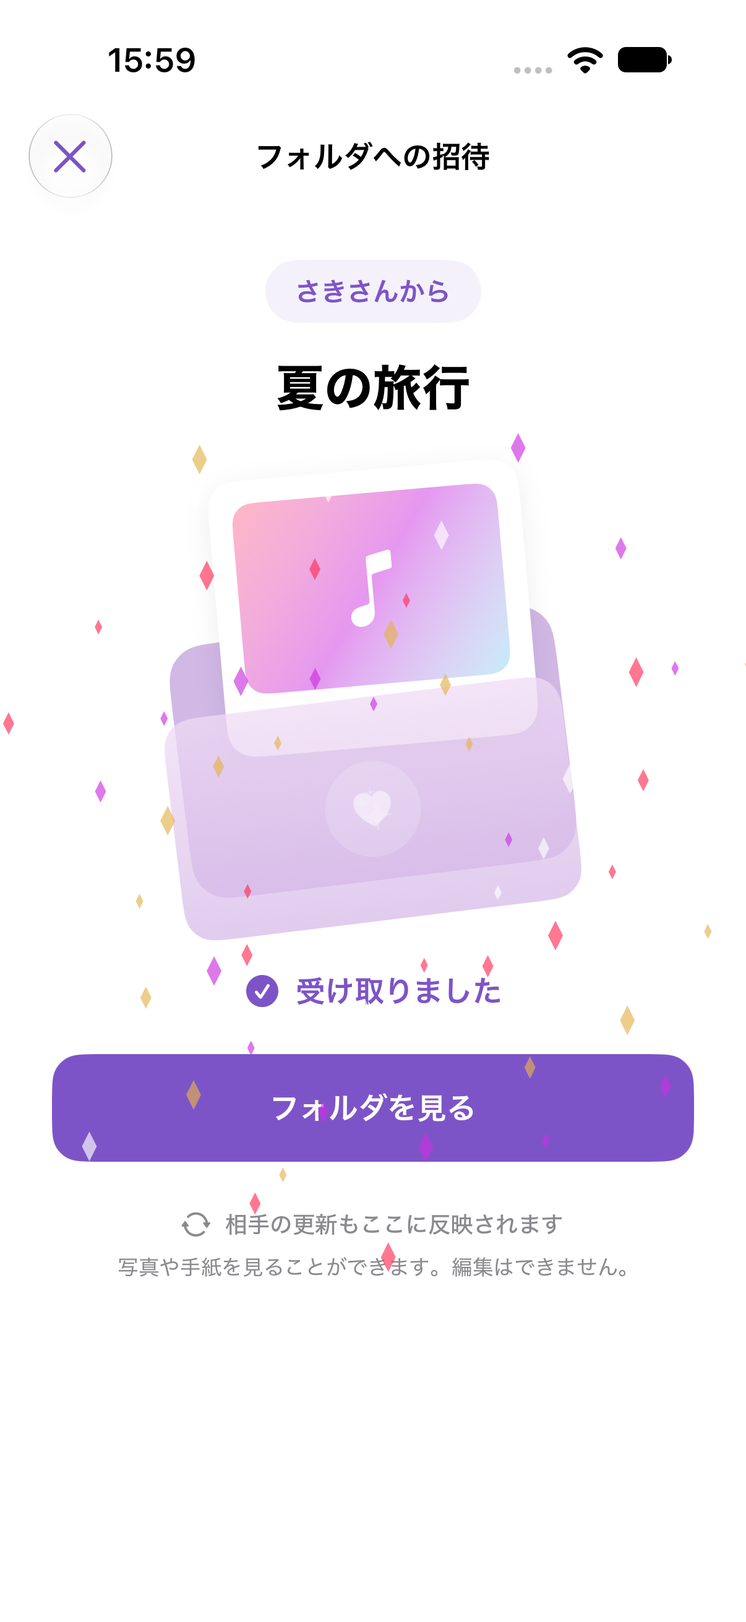
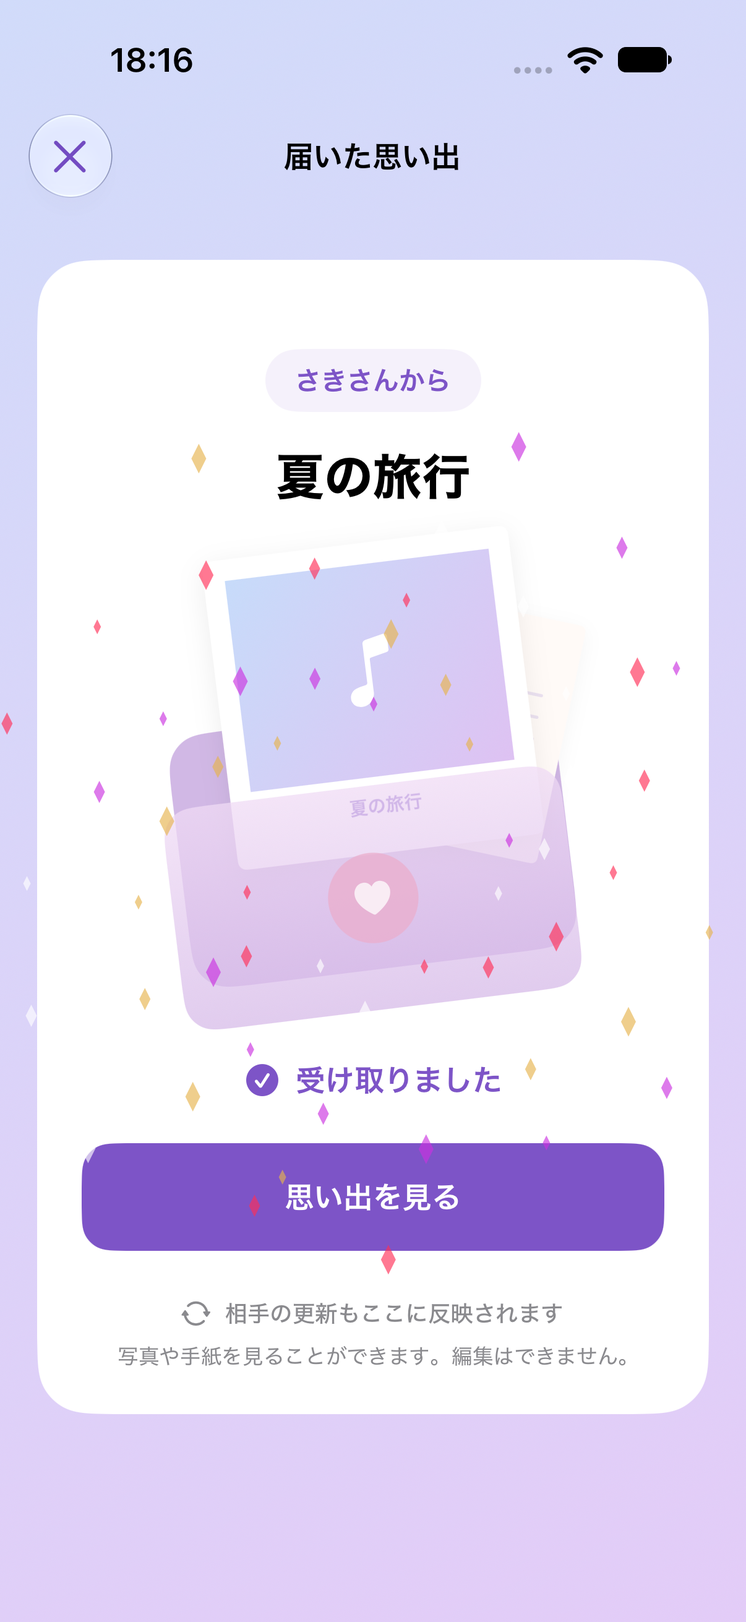
初期企画のチェキと贈り物の雰囲気を送受信画面に反映

diff --git a/sotsugyo/View/FolderInvitationView.swift b/sotsugyo/View/FolderInvitationView.swift
@@ -1,8 +1,13 @@
 import SwiftUI
 
-private enum GiftPalette {
+enum GiftPalette {
     static let ink = Color.primary
     static let purple = Color(red: 0.49, green: 0.33, blue: 0.78)
+    static let purpleText = Color(uiColor: UIColor { traits in
+        traits.userInterfaceStyle == .dark
+            ? UIColor(red: 0.76, green: 0.63, blue: 0.95, alpha: 1)
+            : UIColor(red: 0.49, green: 0.33, blue: 0.78, alpha: 1)
+    })
 }
 
 struct FolderInvitationView: View {
@@ -28,7 +33,7 @@ struct FolderInvitationView: View {
                             VStack(spacing: 18) {
                                 Text("\(invitation.senderName)さんから")
                                     .font(.subheadline.weight(.semibold))
-                                    .foregroundStyle(GiftPalette.purple)
+                                    .foregroundStyle(GiftPalette.purpleText)
                                     .padding(.horizontal, 16).padding(.vertical, 8)
                                     .background(GiftPalette.purple.opacity(0.08), in: Capsule())
                                 Text(invitation.folder.title)
@@ -37,10 +42,10 @@ struct FolderInvitationView: View {
                                     .accessibilityIdentifier("invite.heading")
                             }
                             .padding(.top, 24)
-                            GiftEnvelope(opened: opened, reduceMotion: reduceMotion)
+                            GiftEnvelope(opened: opened, title: invitation.folder.title)
                                 .scaleEffect(0.85).frame(height: 250)
                             Label("受け取りました", systemImage: "checkmark.circle.fill")
-                                .font(.headline).foregroundStyle(GiftPalette.purple)
+                                .font(.headline).foregroundStyle(GiftPalette.purpleText)
                                 .opacity(opened ? 1 : 0)
                                 .accessibilityHidden(!opened)
                                 .accessibilityIdentifier("invite.received")
@@ -58,13 +63,15 @@ struct FolderInvitationView: View {
                             .padding(.top, 2)
                         }
                     }
-                    .padding(.horizontal, 28).padding(.bottom, 32)
+                    .padding(24)
+                    .background(Color(uiColor: .secondarySystemGroupedBackground), in: RoundedRectangle(cornerRadius: 28))
+                    .padding(.horizontal, 20).padding(.vertical, 24)
                     .frame(maxWidth: 540).frame(maxWidth: .infinity)
                 }
                 if opened && !reduceMotion { GiftSparkles().allowsHitTesting(false).accessibilityHidden(true) }
             }
             .foregroundStyle(GiftPalette.ink)
-            .navigationTitle("フォルダへの招待").navigationBarTitleDisplayMode(.inline)
+            .navigationTitle("届いた思い出").navigationBarTitleDisplayMode(.inline)
             .toolbar {
                 ToolbarItem(placement: .cancellationAction) {
                     Button("閉じる", systemImage: "xmark") { dismiss() }
@@ -73,7 +80,7 @@ struct FolderInvitationView: View {
             }
             .navigationDestination(isPresented: $showFolder) {
                 if let received = model.received {
-                    SharedFolderView(reference: received, repository: model.repository)
+                    SharedFolderView(reference: received, senderName: model.invitation?.senderName, repository: model.repository)
                 }
             }
             .task { await model.load(link) }
@@ -109,7 +116,7 @@ struct FolderInvitationView: View {
             } label: {
                 HStack(spacing: 10) {
                     if model.isWorking { ProgressView().tint(.white) }
-                    Text(model.isWorking ? "受け取り中…" : opened ? "フォルダを見る" : "受け取る")
+                    Text(model.isWorking ? "受け取り中…" : opened ? "思い出を見る" : "受け取って開く")
                 }
                 .font(.headline).frame(maxWidth: .infinity, minHeight: 58)
                 .foregroundStyle(.white)
@@ -124,11 +131,12 @@ struct FolderInvitationView: View {
 struct FolderInviteShareView: View {
     let folderID: String
     let folderName: String
+    let coverImage: UIImage?
     @StateObject private var model: FolderInvitationModel
     @Environment(\.dismiss) private var dismiss
     @State private var confirmRevoke = false
-    init(folderID: String, folderName: String, repository: any FolderInvitationRepository = FirebaseFolderInvitationRepository()) {
-        self.folderID = folderID; self.folderName = folderName
+    init(folderID: String, folderName: String, coverImage: UIImage? = nil, repository: any FolderInvitationRepository = FirebaseFolderInvitationRepository()) {
+        self.folderID = folderID; self.folderName = folderName; self.coverImage = coverImage
         _model = StateObject(wrappedValue: FolderInvitationModel(repository: repository))
     }
     var body: some View {
@@ -140,8 +148,8 @@ struct FolderInviteShareView: View {
                         Text(folderName)
                             .font(.system(size: 28, weight: .heavy, design: .rounded))
                             .multilineTextAlignment(.center).padding(.top, 20)
-                        GiftEnvelope(opened: false, reduceMotion: true).scaleEffect(0.72).frame(height: 210)
-                        Text("リンクを送ると、相手もこのフォルダを見られます。\n写真や手紙の更新も、相手に反映されます。")
+                        GiftEnvelope(opened: true, title: folderName, coverImage: coverImage).scaleEffect(0.85).frame(height: 260)
+                        Text("写真に音楽や手紙を添えて、\nリンクで送れます。")
                             .font(.subheadline).multilineTextAlignment(.center)
                         if model.isWorking { ProgressView("リンクを準備しています…") }
                         else if let invitation = model.invitation, !model.isRevoked {
@@ -152,7 +160,7 @@ struct FolderInviteShareView: View {
                             .buttonStyle(.borderedProminent).buttonBorderShape(.roundedRectangle(radius: 16))
                             .accessibilityIdentifier("invite.share")
                             Text("\(invitation.expiresAt.formatted(date: .abbreviated, time: .omitted))まで参加できます。\nリンクを知っている方は、ログインすると参加できます。")
-                                .font(.caption).multilineTextAlignment(.center)
+                                .font(.caption).foregroundStyle(.secondary).multilineTextAlignment(.center)
                             Button("このリンクを無効にする", role: .destructive) { confirmRevoke = true }
                                 .font(.footnote)
                         } else {
@@ -160,12 +168,18 @@ struct FolderInviteShareView: View {
                             Button(model.isRevoked ? "新しい招待リンクを作る" : "招待リンクを作る") { Task { await model.create(folderID: folderID) } }
                                 .buttonStyle(.borderedProminent).controlSize(.large)
                         }
+                        Text("送ったあとに写真や手紙を更新すると、相手にも反映されます。")
+                            .font(.caption).foregroundStyle(.secondary).multilineTextAlignment(.center)
                         if let error = model.error { Text(error).font(.footnote).foregroundStyle(.red) }
-                    }.padding(28).frame(maxWidth: 540).frame(maxWidth: .infinity)
+                    }
+                    .padding(24)
+                    .background(Color(uiColor: .secondarySystemGroupedBackground), in: RoundedRectangle(cornerRadius: 28))
+                    .padding(.horizontal, 20).padding(.vertical, 24)
+                    .frame(maxWidth: 540).frame(maxWidth: .infinity)
                 }
             }
             .foregroundStyle(GiftPalette.ink).tint(GiftPalette.purple)
-            .navigationTitle("招待リンク").navigationBarTitleDisplayMode(.inline)
+            .navigationTitle("思い出を送る").navigationBarTitleDisplayMode(.inline)
             .toolbar { ToolbarItem(placement: .cancellationAction) { Button("閉じる") { dismiss() }.disabled(model.isWorking) } }
             .confirmationDialog("招待リンクを無効にしますか？", isPresented: $confirmRevoke, titleVisibility: .visible) {
                 Button("リンクを無効にする", role: .destructive) { Task { await model.revoke() } }
@@ -175,36 +189,60 @@ struct FolderInviteShareView: View {
     }
 }
 
-private struct GiftBackdrop: View {
+struct GiftBackdrop: View {
+    @Environment(\.colorScheme) private var colorScheme
     var body: some View {
-        Color(uiColor: .systemBackground).ignoresSafeArea()
+        LinearGradient(
+            colors: colorScheme == .dark
+                ? [Color(red: 0.13, green: 0.14, blue: 0.22), Color(red: 0.20, green: 0.14, blue: 0.25)]
+                : [Color(red: 0.82, green: 0.86, blue: 0.98), Color(red: 0.89, green: 0.80, blue: 0.97)],
+            startPoint: .topLeading, endPoint: .bottomTrailing
+        ).ignoresSafeArea()
     }
 }
 
 private struct GiftEnvelope: View {
     let opened: Bool
-    let reduceMotion: Bool
+    let title: String
+    var coverImage: UIImage? = nil
     var body: some View {
         ZStack {
             RoundedRectangle(cornerRadius: 24).fill(Color(red: 0.82, green: 0.72, blue: 0.9))
                 .frame(width: 246, height: 162).rotationEffect(.degrees(-7)).offset(y: 36)
-            VStack(spacing: 12) {
-                ZStack {
-                    RoundedRectangle(cornerRadius: 12).fill(LinearGradient(colors: [.pink.opacity(0.35), .purple.opacity(0.5), .cyan.opacity(0.3)], startPoint: .topLeading, endPoint: .bottomTrailing))
-                    Image(systemName: "music.note").font(.system(size: 44, weight: .light)).foregroundStyle(.white)
-                }.frame(height: 108)
-                Color.clear.frame(height: 10)
+            VStack(alignment: .leading, spacing: 12) {
+                Image(systemName: "heart").font(.system(size: 16, weight: .semibold)).foregroundStyle(.pink.opacity(0.6))
+                ForEach(0..<3) { _ in Capsule().fill(GiftPalette.purple.opacity(0.15)).frame(height: 2) }
+                Spacer(minLength: 0)
             }
-            .padding(13).background(.white, in: RoundedRectangle(cornerRadius: 16))
-            .frame(width: 176).rotationEffect(.degrees(opened ? -5 : 5))
+            .padding(18).frame(width: 138, height: 154)
+            .background(Color(red: 1, green: 0.98, blue: 0.97), in: RoundedRectangle(cornerRadius: 4))
+            .rotationEffect(.degrees(12)).offset(x: 52, y: opened ? -38 : 28)
+            .shadow(color: .black.opacity(0.04), radius: 6, y: 3)
+            VStack(spacing: 10) {
+                Group {
+                    if let coverImage {
+                        Image(uiImage: coverImage).resizable().scaledToFit()
+                    } else {
+                        ZStack {
+                            Rectangle().fill(LinearGradient(colors: [Color(red: 0.78, green: 0.86, blue: 0.98), Color(red: 0.87, green: 0.76, blue: 0.95)], startPoint: .topLeading, endPoint: .bottomTrailing))
+                            Image(systemName: "music.note").font(.system(size: 40, weight: .medium)).foregroundStyle(.white)
+                        }
+                    }
+                }.frame(width: 150, height: 120)
+                Text(title).font(.system(size: 11, weight: .bold, design: .rounded))
+                    .foregroundStyle(GiftPalette.purple).lineLimit(1)
+            }
+            .padding(12).padding(.bottom, 8).frame(width: 174)
+            .background(.white, in: RoundedRectangle(cornerRadius: 5))
+            .rotationEffect(.degrees(opened ? -7 : 5))
             .offset(y: opened ? -48 : 12).scaleEffect(opened ? 1.12 : 0.9)
             .shadow(color: .black.opacity(0.07), radius: 8, y: 4)
             RoundedRectangle(cornerRadius: 20)
                 .fill(LinearGradient(colors: [Color(red: 0.94, green: 0.86, blue: 0.96), Color(red: 0.84, green: 0.73, blue: 0.91)], startPoint: .top, endPoint: .bottom))
                 .frame(width: 254, height: 142).overlay {
-                    Image(systemName: opened ? "heart.fill" : "sparkles")
-                        .font(.system(size: 25, weight: .light)).foregroundStyle(.white)
-                        .padding(17).background(.white.opacity(0.22), in: Circle())
+                    Image(systemName: "heart.fill")
+                        .font(.system(size: 23, weight: .medium)).foregroundStyle(.white)
+                        .padding(16).background(Color(red: 0.92, green: 0.68, blue: 0.80), in: Circle())
                 }.rotationEffect(.degrees(-7)).offset(y: opened ? 72 : 68)
                 .opacity(opened ? 0.75 : 1)
         }

diff --git a/sotsugyo/View/SharedFolderView.swift b/sotsugyo/View/SharedFolderView.swift
@@ -2,11 +2,13 @@ import SwiftUI
 
 struct SharedFolderView: View {
     let reference: LiveSharedFolder
+    let senderName: String?
     @StateObject private var model: SharedFolderModel
     @State private var retryID = UUID()
     @Environment(\.scenePhase) private var scenePhase
-    init(reference: LiveSharedFolder, repository: any FolderInvitationRepository = FirebaseFolderInvitationRepository()) {
+    init(reference: LiveSharedFolder, senderName: String? = nil, repository: any FolderInvitationRepository = FirebaseFolderInvitationRepository()) {
         self.reference = reference
+        self.senderName = senderName
         #if DEBUG
         if UITestFixtures.isEnabled {
             _model = StateObject(wrappedValue: SharedFolderModel(repository: repository, imageLoader: { _, _ in UITestFixtures.image().pngData()! }))
@@ -20,14 +22,15 @@ struct SharedFolderView: View {
     var body: some View {
         ScrollView {
             VStack(alignment: .leading, spacing: 28) {
-                VStack(alignment: .leading, spacing: 12) {
+                VStack(spacing: 12) {
+                    if let senderName {
+                        Text("\(senderName)さんから").font(.subheadline.bold()).foregroundStyle(.secondary)
+                    }
                     Text(model.folder?.title ?? reference.title)
                         .font(.system(size: 28, weight: .heavy, design: .rounded))
-                        .frame(maxWidth: .infinity, alignment: .leading)
-                    Label("閲覧のみ・相手の更新も反映されます", systemImage: "person.2")
-                        .font(.caption).foregroundStyle(.secondary)
+                        .multilineTextAlignment(.center)
                 }
-                .padding(.top, 12)
+                .frame(maxWidth: .infinity).padding(.top, 12)
                 if let error = model.error {
                     Text(error).font(.subheadline).multilineTextAlignment(.center)
                     Button("再読み込み") { retryID = UUID() }
@@ -37,32 +40,43 @@ struct SharedFolderView: View {
                     VStack(alignment: .leading, spacing: 20) {
                         Label("手紙", systemImage: "envelope.open")
                             .font(.system(.headline, design: .rounded, weight: .bold))
-                            .foregroundStyle(Color(red: 0.49, green: 0.33, blue: 0.78))
+                            .foregroundStyle(GiftPalette.purpleText)
                         Rectangle().fill(.purple.opacity(0.12)).frame(height: 1)
                         Text(folder.letter).font(.body).lineSpacing(8).frame(maxWidth: .infinity, alignment: .leading)
                             .accessibilityIdentifier("shared.letter")
                     }
-                    .padding(24).background(Color(uiColor: .secondarySystemGroupedBackground), in: RoundedRectangle(cornerRadius: 24))
-                    .overlay { RoundedRectangle(cornerRadius: 24).strokeBorder(.purple.opacity(0.10), lineWidth: 1) }
+                    .padding(24).padding(.top, 8)
+                    .background(Color(uiColor: .secondarySystemGroupedBackground), in: RoundedRectangle(cornerRadius: 8))
+                    .overlay(alignment: .top) {
+                        Rectangle().fill(Color(red: 0.96, green: 0.76, blue: 0.85).opacity(0.8))
+                            .frame(width: 66, height: 18).rotationEffect(.degrees(-4)).offset(y: -8)
+                            .accessibilityHidden(true)
+                    }
+                    .padding(.top, 12)
                 }
                 if !model.photos.isEmpty {
-                    Text("写真").font(.system(.title3, design: .rounded, weight: .bold))
+                    Text("チェキ").font(.system(.title3, design: .rounded, weight: .bold))
                 }
                 ForEach(model.photos) { photo in
                     VStack(spacing: 0) {
-                        Image(uiImage: photo.image).resizable().scaledToFit().clipShape(RoundedRectangle(cornerRadius: 16))
+                        Image(uiImage: photo.image).resizable().scaledToFit()
                         if let music = photo.record.music { MusicAttachmentView(track: music.track) }
                     }
-                    .padding(12).background(Color(uiColor: .secondarySystemGroupedBackground), in: RoundedRectangle(cornerRadius: 24))
+                    .padding(8).background(Color(uiColor: .secondarySystemGroupedBackground), in: RoundedRectangle(cornerRadius: 6))
+                    .shadow(color: .black.opacity(0.04), radius: 6, y: 3)
                 }
                 if model.folder != nil && model.photos.isEmpty && !model.isLoading {
                     Text("写真は、送り主が追加するとここに届きます。")
                         .font(.footnote).foregroundStyle(.secondary)
                 }
+                if model.folder != nil {
+                    Text("相手の更新もここに反映されます。内容の編集はできません。")
+                        .font(.caption).foregroundStyle(.secondary)
+                }
             }.padding(24).frame(maxWidth: 560).frame(maxWidth: .infinity)
         }
-        .background(Color(uiColor: .systemGroupedBackground))
-        .navigationTitle("共有されたフォルダ").navigationBarTitleDisplayMode(.inline)
+        .background { GiftBackdrop() }
+        .navigationTitle("届いた思い出").navigationBarTitleDisplayMode(.inline)
         .task(id: "\(retryID)-\(scenePhase == .active)") {
             if scenePhase == .active { await model.observe(reference) }
         }
@@ -76,7 +90,7 @@ struct SharedFolderLibrarySection: View {
     var body: some View {
         VStack(alignment: .leading, spacing: 12) {
             if !folders.isEmpty {
-                Text("共有されたフォルダ").font(.title2.bold())
+                Text("届いた思い出").font(.title2.bold())
                 ForEach(folders) { folder in
                     NavigationLink {
                         SharedFolderView(reference: folder)

diff --git a/sotsugyo/View/main/FolderContentView.swift b/sotsugyo/View/main/FolderContentView.swift
@@ -255,7 +255,7 @@ struct FolderDetailView: View {
                     }
 
                     Button { showInvite = true } label: {
-                        Label("リンクで共有", systemImage: "gift.fill")
+                        Label("リンクで送る", systemImage: "gift.fill")
                             .font(.headline).frame(maxWidth: .infinity, minHeight: 48)
                     }
                     .buttonStyle(.borderedProminent).tint(.purple).buttonBorderShape(.capsule)
@@ -302,10 +302,10 @@ struct FolderDetailView: View {
         .sheet(isPresented: $showInvite) {
             #if DEBUG
             if UITestFixtures.isEnabled {
-                FolderInviteShareView(folderID: folderId, folderName: folderName, repository: UITestInvitationRepository())
-            } else { FolderInviteShareView(folderID: folderId, folderName: folderName) }
+                FolderInviteShareView(folderID: folderId, folderName: folderName, coverImage: viewModel.folderCoverImages[folderId], repository: UITestInvitationRepository())
+            } else { FolderInviteShareView(folderID: folderId, folderName: folderName, coverImage: viewModel.folderCoverImages[folderId]) }
             #else
-            FolderInviteShareView(folderID: folderId, folderName: folderName)
+            FolderInviteShareView(folderID: folderId, folderName: folderName, coverImage: viewModel.folderCoverImages[folderId])
             #endif
         }
         .task(id: folderId) {

diff --git a/docs/verification/invite-links/README.md b/docs/verification/invite-links/README.md
@@ -4,7 +4,9 @@
 
 ## 画面
 
-招待・送信画面は送り主と実際のフォルダ名を主役にしています。太めのフォントと紫の封筒を残し、英字の飾り・抽象的なコピー・背景のぼかし・常時表示の星を外しました。受け取り成功時にカードが現れ、キラキラした粒子が広がります。文面は「リンクで共有」「共有されたフォルダ」など、操作や内容が直接伝わる表現に揃えています。受信画面は送り主を淡い紫のラベルで示し、開封前後で操作ボタンの位置を維持。受け取り後は見出しを左揃えにし、手紙と写真を分けて表示します。確認用のフォルダ名・手紙も普段のやり取りに近い文章にしています。
+初期企画資料の「チェキ×音楽×プレゼント」に合わせ、水色〜紫の背景と白い台紙、太めの文字、チェキと便箋を入れた封筒で送受信画面を統一しています。送信画面には読み込み済みのフォルダ表紙を表示し、受信画面は受け取り成功後に開封とキラキラの演出を表示します。参加前に写真を取得する処理は追加していません。
+
+操作は「リンクで送る」「受け取って開く」「思い出を見る」、一覧は「届いた思い出」と表示します。更新の同期・閲覧専用・リンクの公開範囲の説明は残しています。受信画面は開封前後でボタン位置を維持し、共有内容は便箋とチェキの形で表示します。
 
 Xcode 27.2 beta 2 / iPhone 18 Pro / iOS 27.0 の専用シミュレーター「PicTune Model Review」。写真・送り主名は確認用の架空データです。
 
@@ -25,6 +27,7 @@ Xcode 27.2 beta 2 / iPhone 18 Pro / iOS 27.0 の専用シミュレーター「Pi
 - 2026-10-07: 送り主・フォルダ名を主役にした画面で、招待作成・無効化、期限切れ、通信失敗、開封と同期のUIテスト4件が成功。最終の文字色調整後にも送信・開封の2件を再実行し成功。掲載画像は最終画面です。
 - 2026-10-07: 文面のみの調整後、招待作成・無効化と開封・手紙の同期のUIテスト2件が成功。送信・受信・共有フォルダの文章の折り返しを確認し、掲載画像を更新。配色・フォント・アニメーションは変更していません。
 - 2026-10-07: 受信画面と共有フォルダの調整後、開封・手紙の同期、期限切れ、通信失敗のUIテスト3件が成功。受け取り前後のボタン位置、説明文と手紙の表示をシミュレーター画像で確認。受信・開封・共有フォルダの掲載画像を更新。
+- 2026-10-07: 初期企画資料に合わせた送受信画面・共有内容の調整後、招待作成・無効化、開封・手紙の同期、期限切れ、通信失敗のUIテスト4件が成功。送信表紙、チェキと便箋の開封、文章の折り返しを確認し、掲載画像4枚を更新。ダークモードの受信画面も確認し、文字色調整後にも送信・開封の2件を再実行し成功。
 - `git diff --check` 成功。
 
 ## 本番への反映

diff --git a/docs/folder-invitations.md b/docs/folder-invitations.md
@@ -2,9 +2,9 @@
 
 ## 仕様
 
-- フォルダ詳細の「リンクで共有」から、256 bit相当のランダムな招待トークンを含むHTTPSリンクを発行します。リンクの参加期限は7日です。同じフォルダの有効なリンクを再利用でき、無効化後は再発行できます。
+- フォルダ詳細の「リンクで送る」から、256 bit相当のランダムな招待トークンを含むHTTPSリンクを発行します。リンクの参加期限は7日です。同じフォルダの有効なリンクを再利用でき、無効化後は再発行できます。
 - リンクを知っているログイン済みの利用者が参加できます。未ログイン時は招待を保持し、ログイン後に受け取り画面へ戻ります。
-- 参加者は閲覧専用です。元フォルダの写真・楽曲情報・手紙の変更をFirestoreのリスナーで表示します。受信者のフォルダ一覧には「共有されたフォルダ」として表示します。
+- 参加者は閲覧専用です。元フォルダの写真・楽曲情報・手紙の変更をFirestoreのリスナーで表示します。受信者のフォルダ一覧には「届いた思い出」として表示します。
 - 参加処理は共有権限と受信一覧への参照を1バッチで保存します。同じ招待の再試行ではフォルダが重複しません。
 - リンクの無効化・期限切れは新しい参加を停止します。参加済みの利用者との共有は継続します。元フォルダの削除後は閲覧できなくなります。
 - 成功した参加処理の後だけ、封筒からカードが現れ、光と粒子が広がる演出と触覚フィードバックを表示します。Reduce Motionでは粒子を表示せず、短い切り替えにします。
